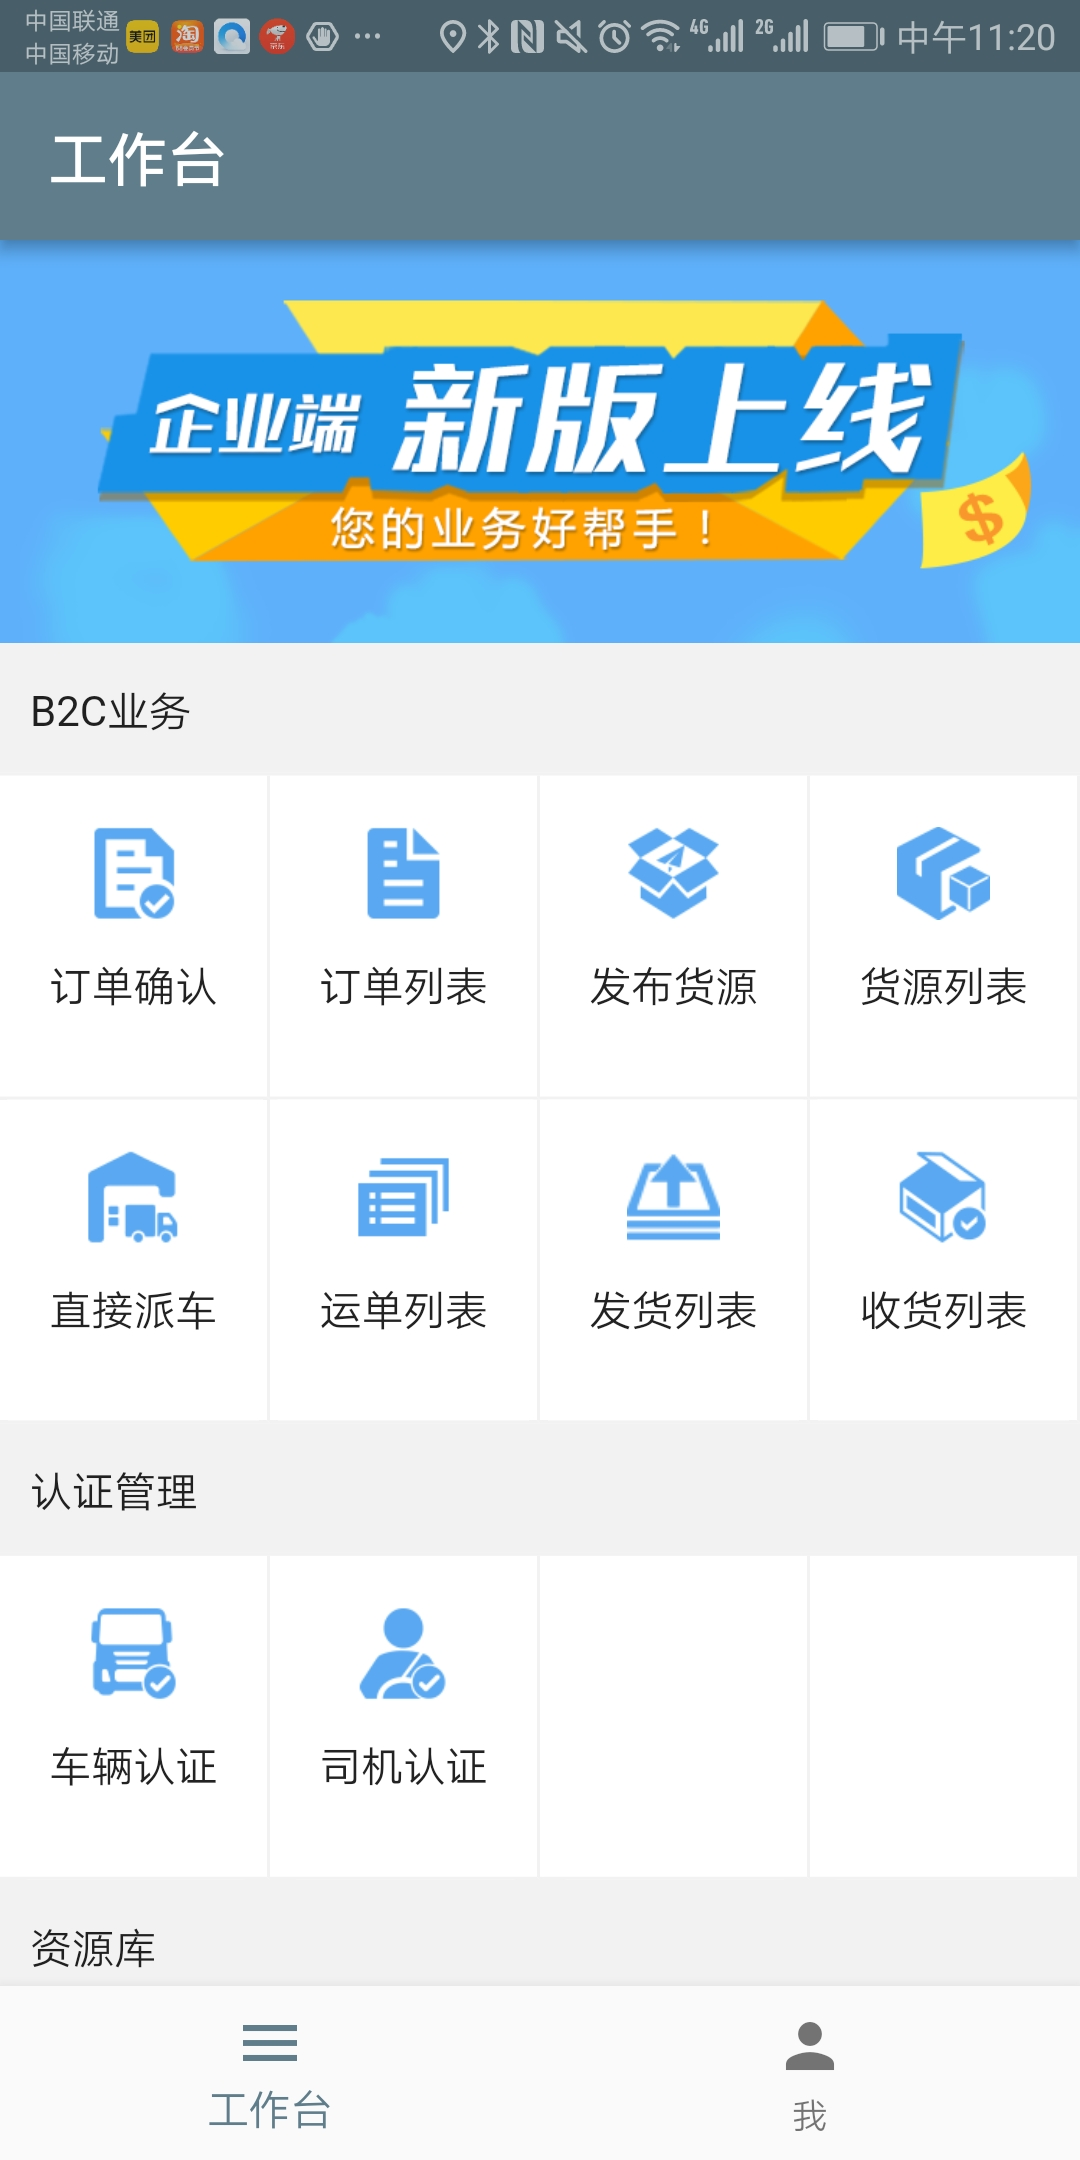
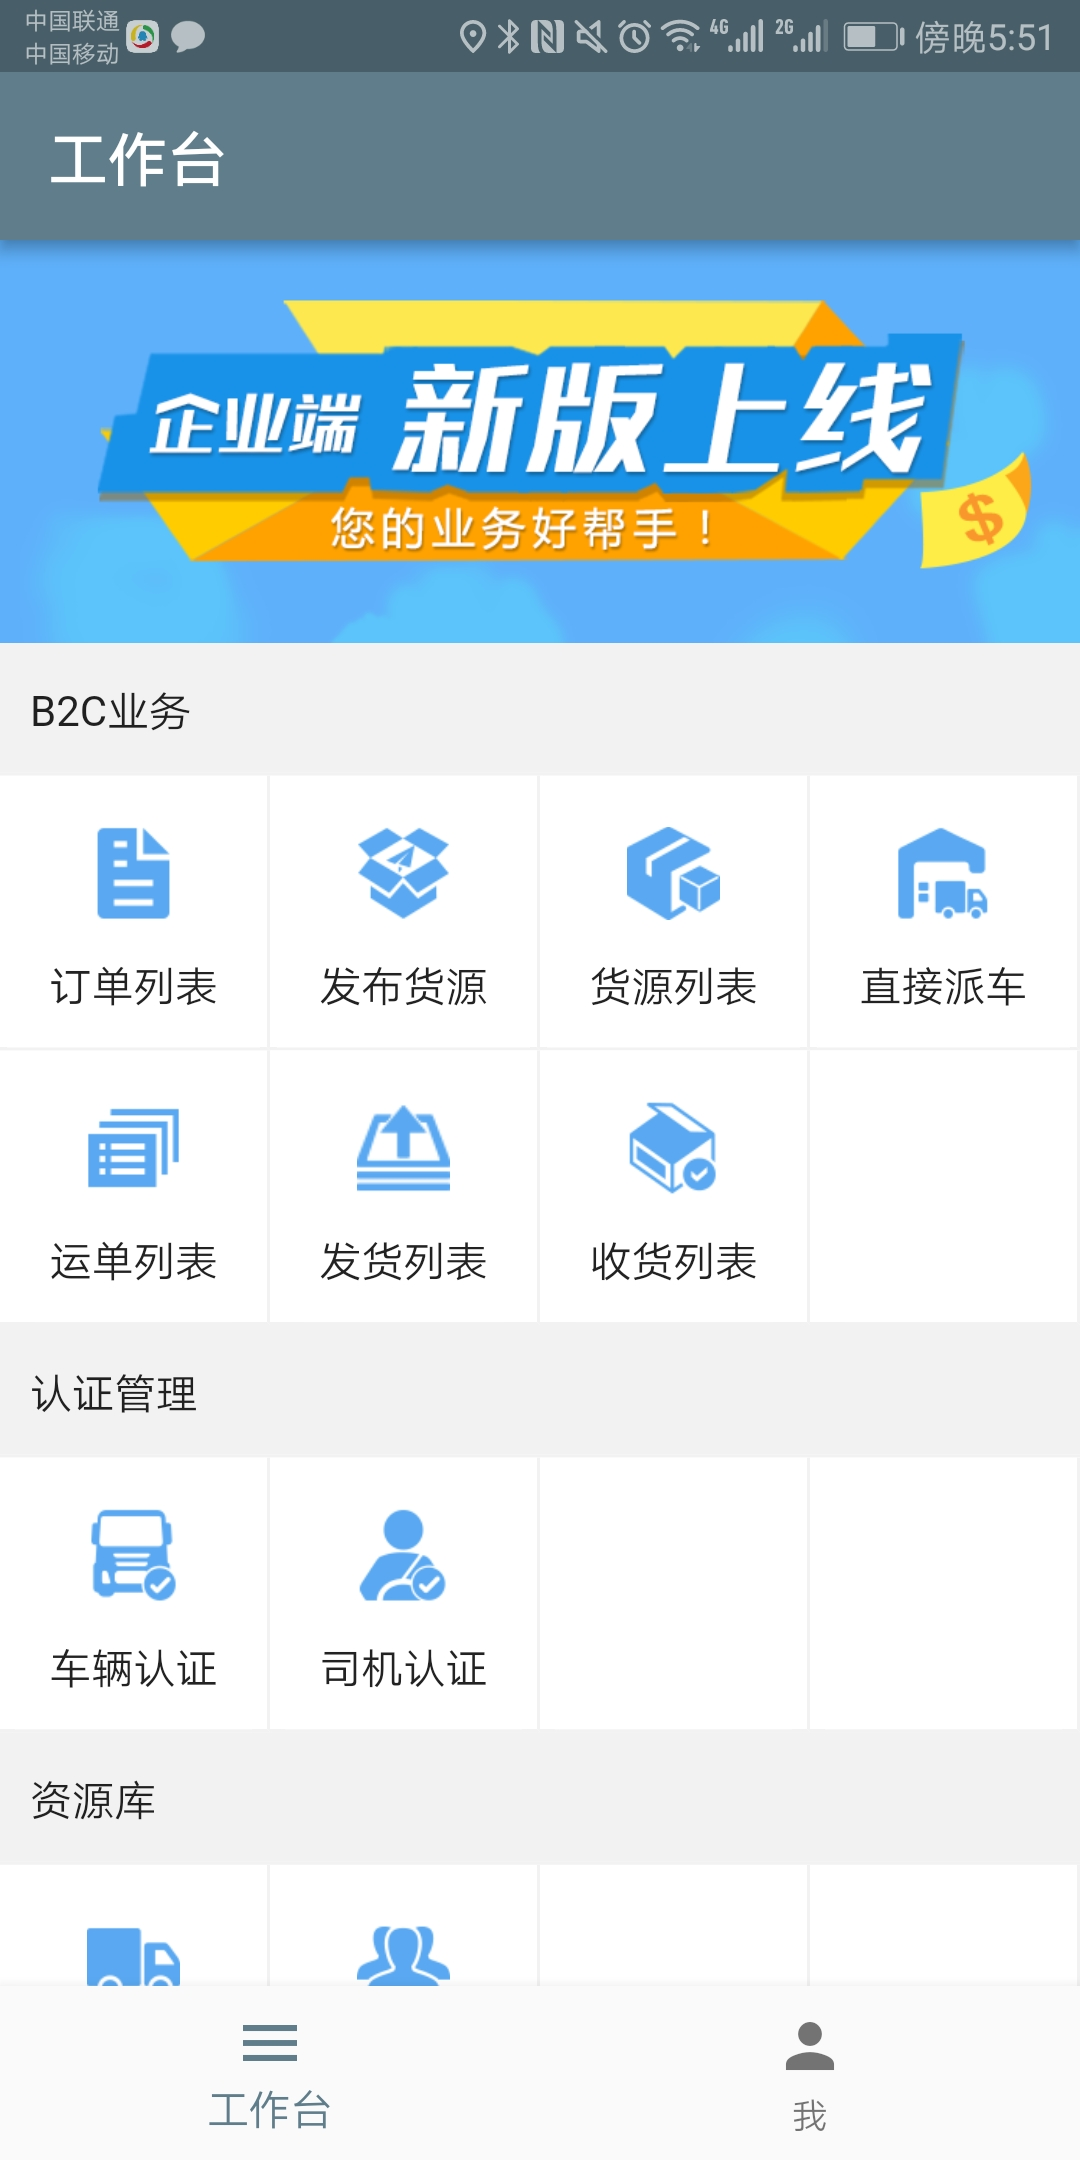
优化首页样式

diff --git a/lib/components/date_picker.dart b/lib/components/date_picker.dart
@@ -33,7 +33,7 @@ class _DatePickerState extends State<DatePicker> {
   List<String>dayList28 = ['01日', '02日', '03日', '04日', '05日', '06日', '07日', '08日', '09日', '10日', '11日', '12日', '13日', '14日', '15日', '16日', '17日', '18日', '19日', '20日', '21日', '22日', '23日', '24日', '25日', '26日', '27日', '28日'];
   List<String>monthList = ['01月', '02月', '03月', '04月', '05月', '06月', '07月', '08月', '09月', '10月', '11月', '12月'];
   List<String>hourList = ['00时', '01时', '02时', '03时', '04时', '05时', '06时', '07时', '08时', '09时', '10时', '11时', '12时', '13时', '14时', '15时', '16时', '17时', '18时', '19时', '20时', '21时', '22时', '23时'];
-  List<String>minuteList = ['00分', '01分', '0分', '02分', '03分', '04分', '05分', '06分', '07分', '08分', '09分', '10分', '11分', '12分', '13分', '14分', '15分', '16分', '17分', '18分', '19分', '20分', '21分', '22分', '23分', '24分', '25分', '26分', '27分', '28分', '29分', '30分', '31分', '32分', '33分', '34分', '35分', '36分', '37分', '38分', '39分', '40分', '41分', '42分', '43分', '44分', '45分', '46分', '47分', '48分', '49分', '50分', '51分', '52分', '53分', '54分', '55分', '56分', '57分', '58分', '59分'];
+  List<String>minuteList = ['00分', '01分', '02分', '03分', '04分', '05分', '06分', '07分', '08分', '09分', '10分', '11分', '12分', '13分', '14分', '15分', '16分', '17分', '18分', '19分', '20分', '21分', '22分', '23分', '24分', '25分', '26分', '27分', '28分', '29分', '30分', '31分', '32分', '33分', '34分', '35分', '36分', '37分', '38分', '39分', '40分', '41分', '42分', '43分', '44分', '45分', '46分', '47分', '48分', '49分', '50分', '51分', '52分', '53分', '54分', '55分', '56分', '57分', '58分', '59分'];
   int yearIndex = 0;
   int monthIndex = 0;
   int dayIndex = 0;
@@ -49,7 +49,7 @@ class _DatePickerState extends State<DatePicker> {
   @override
   Widget build(BuildContext context) {
     return Container(
-      height: ScreenUtil().setHeight(640),
+      height: ScreenUtil().setHeight(580),
       child: DefaultTextStyle(
         style: TextStyle(
           fontSize: ScreenUtil().setSp(36),
@@ -114,7 +114,7 @@ class _DatePickerState extends State<DatePicker> {
     return CupertinoPicker(
       children: times.length > 0
       ? times.map((v){
-        return Text(v,style: TextStyle(height: 1.7));
+        return Center(child: Text(v,),);
       }).toList()
       : [Text('')],
       itemExtent: 40.0,

diff --git a/lib/components/city_picker.dart b/lib/components/city_picker.dart
@@ -86,7 +86,7 @@ class _CityPickerState extends State<CityPicker> {
   @override
   Widget build(BuildContext context) {
     return Container(
-      height: ScreenUtil().setHeight(640),
+      height: ScreenUtil().setHeight(580),
       child: DefaultTextStyle(
         style: TextStyle(
           fontSize: ScreenUtil().setSp(36),
@@ -140,7 +140,7 @@ class _CityPickerState extends State<CityPicker> {
                       key: Key('province'),
                       createWidgetList: (){
                         return province.map((v){
-                          return Text(v['chineseShortName'],style: TextStyle(height: 1.7),);
+                          return Center(child: Text(v['chineseShortName'],),);
                         }).toList();
                       },
                       change: (index) {
@@ -167,7 +167,7 @@ class _CityPickerState extends State<CityPicker> {
                       key: Key('city'),
                       createWidgetList: (){
                         return city.map((v){
-                          return Text(v['chineseShortName'],style: TextStyle(height: 1.7));
+                          return Center(child: Text(v['chineseShortName'],),);
                         }).toList();
                       },
                       change: (index) {
@@ -192,7 +192,7 @@ class _CityPickerState extends State<CityPicker> {
                         key: Key('area'),
                         createWidgetList: (){
                           return area.map((v){
-                            return Text(v['chineseShortName'],style: TextStyle(height: 1.7));
+                            return Center(child: Text(v['chineseShortName'],),);
                           }).toList();
                         },
                         change: (index) {
@@ -242,7 +242,11 @@ class _CommonPickerState extends State<CommonPicker> {
       child: CupertinoPicker(
         key: widget.key,
         scrollController: widget.controller,
-        itemExtent: 40.0,
+        itemExtent:40.0,
+        useMagnifier: true,
+        magnification: 1.0,
+        diameterRatio: 360.0,
+        offAxisFraction: 100.0,
         backgroundColor: Colors.white,
         onSelectedItemChanged: (index){
           if(widget.change != null) {
@@ -251,7 +255,7 @@ class _CommonPickerState extends State<CommonPicker> {
         },
         children: widget.createWidgetList().length > 0
         ? widget.createWidgetList()
-        : [Text('请选择',style: TextStyle(height: 1.7))]
+        : [Center(child: Text('请选择',))]
       )
     );
   }

diff --git a/lib/pages/work_bench_page.dart b/lib/pages/work_bench_page.dart
@@ -246,24 +246,29 @@ class _WorkBenchPageState extends State<WorkBenchPage>  {
         color: Colors.white,
         child: InkWell(
           child: Container(
-            padding: EdgeInsets.only(top: 15,bottom:15),
+            padding: EdgeInsets.only(top: 15,),
             width: MediaQuery.of(context).size.width/4,
-            height: ScreenUtil().setHeight(200),
+            // height: ScreenUtil().setHeight(180),
             decoration: BoxDecoration(
               border: Border(right: BorderSide(width: 1, color: Color(0xFFF2F2F2)),bottom: BorderSide(width: 1, color: Color(0xFFF2F2F2)))
             ),
-            child: Column(
-              children: <Widget>[
-                imgUrl != ''
-                ? Image.asset('assets/images/$imgUrl.png',width: ScreenUtil().setWidth(65),height: ScreenUtil().setHeight(65),)
-                : Container(
-                  width: ScreenUtil().setWidth(65),
-                  height: ScreenUtil().setHeight(65),
-                  child: null,
-                ),
-                Padding(child: null,padding: EdgeInsets.only(top: 10),),
-                Text(title)
-              ],
+            child: ConstrainedBox(
+              constraints: BoxConstraints(
+                minHeight: ScreenUtil().setHeight(140)
+              ),
+              child: Column(
+                children: <Widget>[
+                  imgUrl != ''
+                  ? Image.asset('assets/images/$imgUrl.png',width: ScreenUtil().setWidth(65),height: ScreenUtil().setHeight(65),)
+                  : Container(
+                    width: ScreenUtil().setWidth(65),
+                    height: ScreenUtil().setHeight(65),
+                    child: null,
+                  ),
+                  Padding(child: null,padding: EdgeInsets.only(top: 10),),
+                  Text(title)
+                ],
+              ),
             ),
           ),
           onTap: () {

diff --git a/lib/pages/collection_and_delivery_page.dart b/lib/pages/collection_and_delivery_page.dart
@@ -6,7 +6,7 @@ import '../common/service_method.dart';
 import 'package:dio/dio.dart';
 import 'dart:io';
 import 'package:amap_location/amap_location.dart';
-import 'package:simple_permissions/simple_permissions.dart';
+// import 'package:simple_permissions/simple_permissions.dart';
 import '../components/toast.dart';
 import '../config/service_url.dart';
 import '../components/full_screen_wrapper.dart';
@@ -273,16 +273,16 @@ class _CollectionAndDeliveryPageState extends State<CollectionAndDeliveryPage> {
   _getLocation(String resourceCodeString)async {//获取经纬度
     await AMapLocationClient.startup(new AMapLocationOption( desiredAccuracy:CLLocationAccuracy.kCLLocationAccuracyHundredMeters  ));
 
-    bool hasPermission = await SimplePermissions.checkPermission(Permission.WhenInUseLocation);
-    if (!hasPermission) {
-      PermissionStatus requestPermissionResult =
-          await SimplePermissions.requestPermission(
-              Permission.WhenInUseLocation);
-      if (requestPermissionResult != PermissionStatus.authorized) {
-        Toast.toast(context, "申请定位权限失败");
-        return;
-      }
-    }
+    // bool hasPermission = await SimplePermissions.checkPermission(Permission.WhenInUseLocation);
+    // if (!hasPermission) {
+    //   PermissionStatus requestPermissionResult =
+    //       await SimplePermissions.requestPermission(
+    //           Permission.WhenInUseLocation);
+    //   if (requestPermissionResult != PermissionStatus.authorized) {
+    //     Toast.toast(context, "申请定位权限失败");
+    //     return;
+    //   }
+    // }
 
    AMapLocation _loc =  await AMapLocationClient.getLocation(false);//true 获取详细地址 false不获取地址
     if(_loc.isSuccess()) {

diff --git a/lib/components/single_picker.dart b/lib/components/single_picker.dart
@@ -35,7 +35,7 @@ class _CommonPickerState extends State<CommonPicker> {
   @override
   Widget build(BuildContext context) {
     return Container(
-      height: ScreenUtil().setHeight(640),
+      height: ScreenUtil().setHeight(580),
       child: DefaultTextStyle(
         style: TextStyle(
           fontSize: ScreenUtil().setSp(36),
@@ -91,9 +91,9 @@ class _CommonPickerState extends State<CommonPicker> {
     return CupertinoPicker(
       children: singlePickerList.length > 0
       ? singlePickerList.map((v){
-          return Text(v['key'],style: TextStyle(height: 1.8));
+          return Center(child: Text(v['key']),);
         }).toList()
-      : [ Text('暂无数据',style: TextStyle(height: 1.8))],
+      : [ Center(child: Text('暂无数据'),)],
       itemExtent: 38.0,
       backgroundColor: Colors.white,
       diameterRatio: 38.0,
